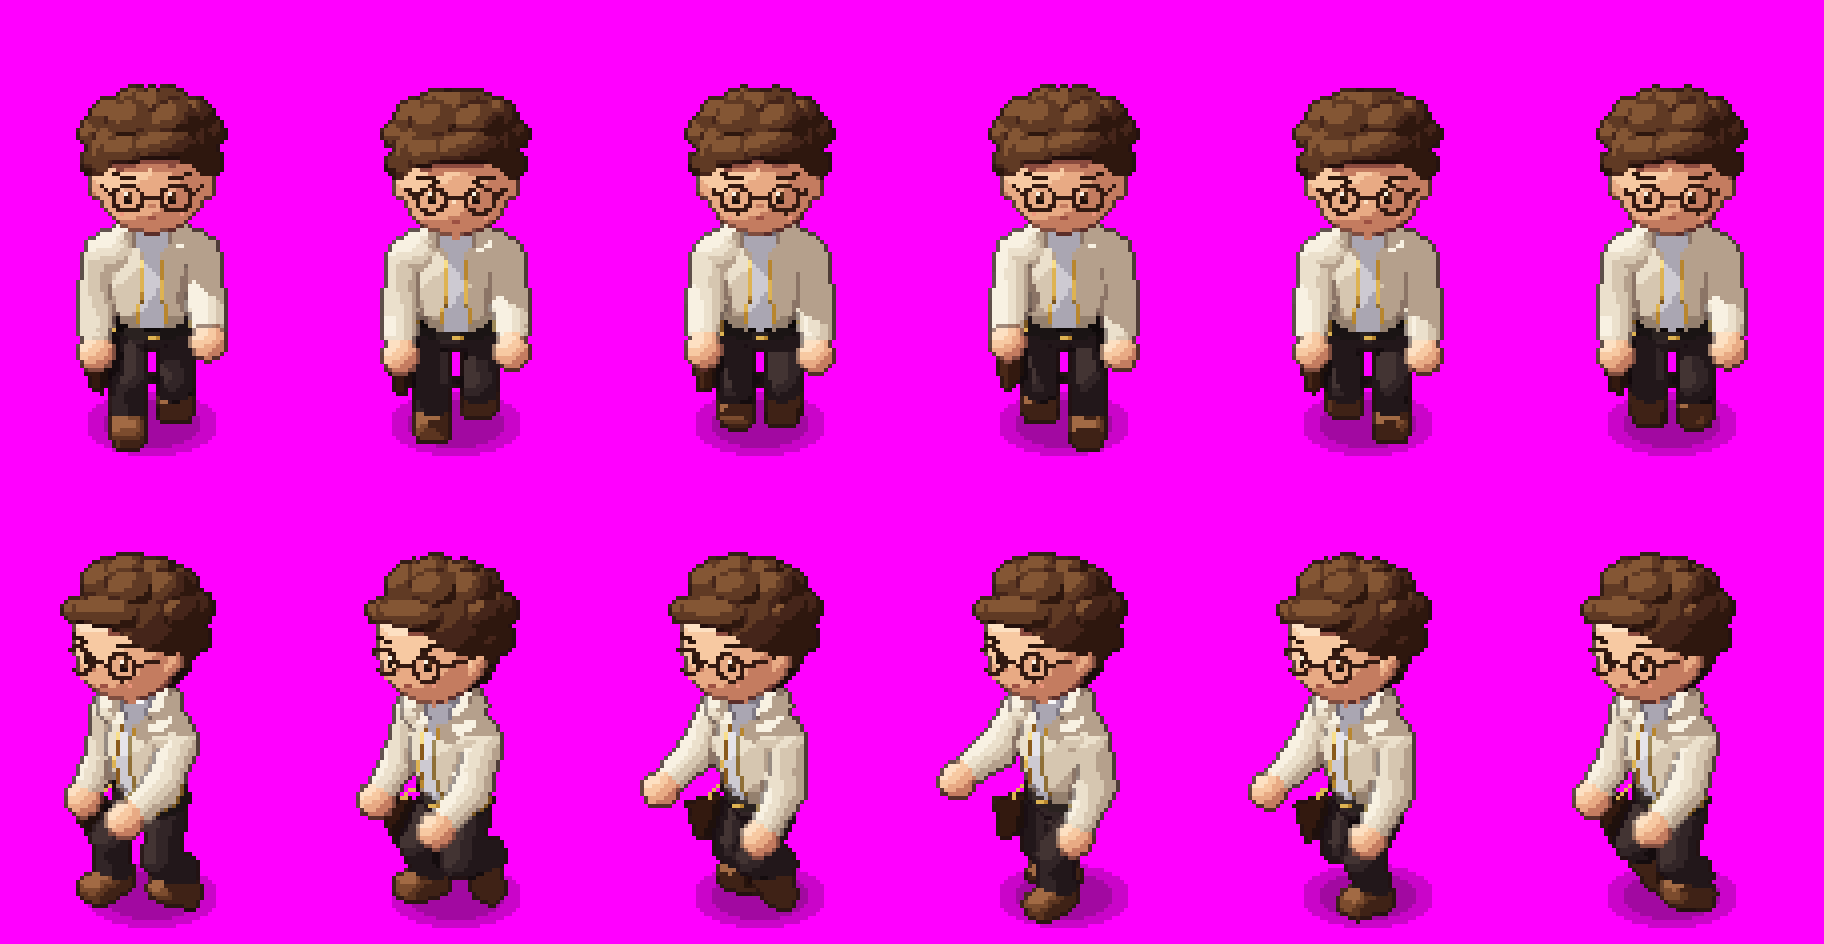
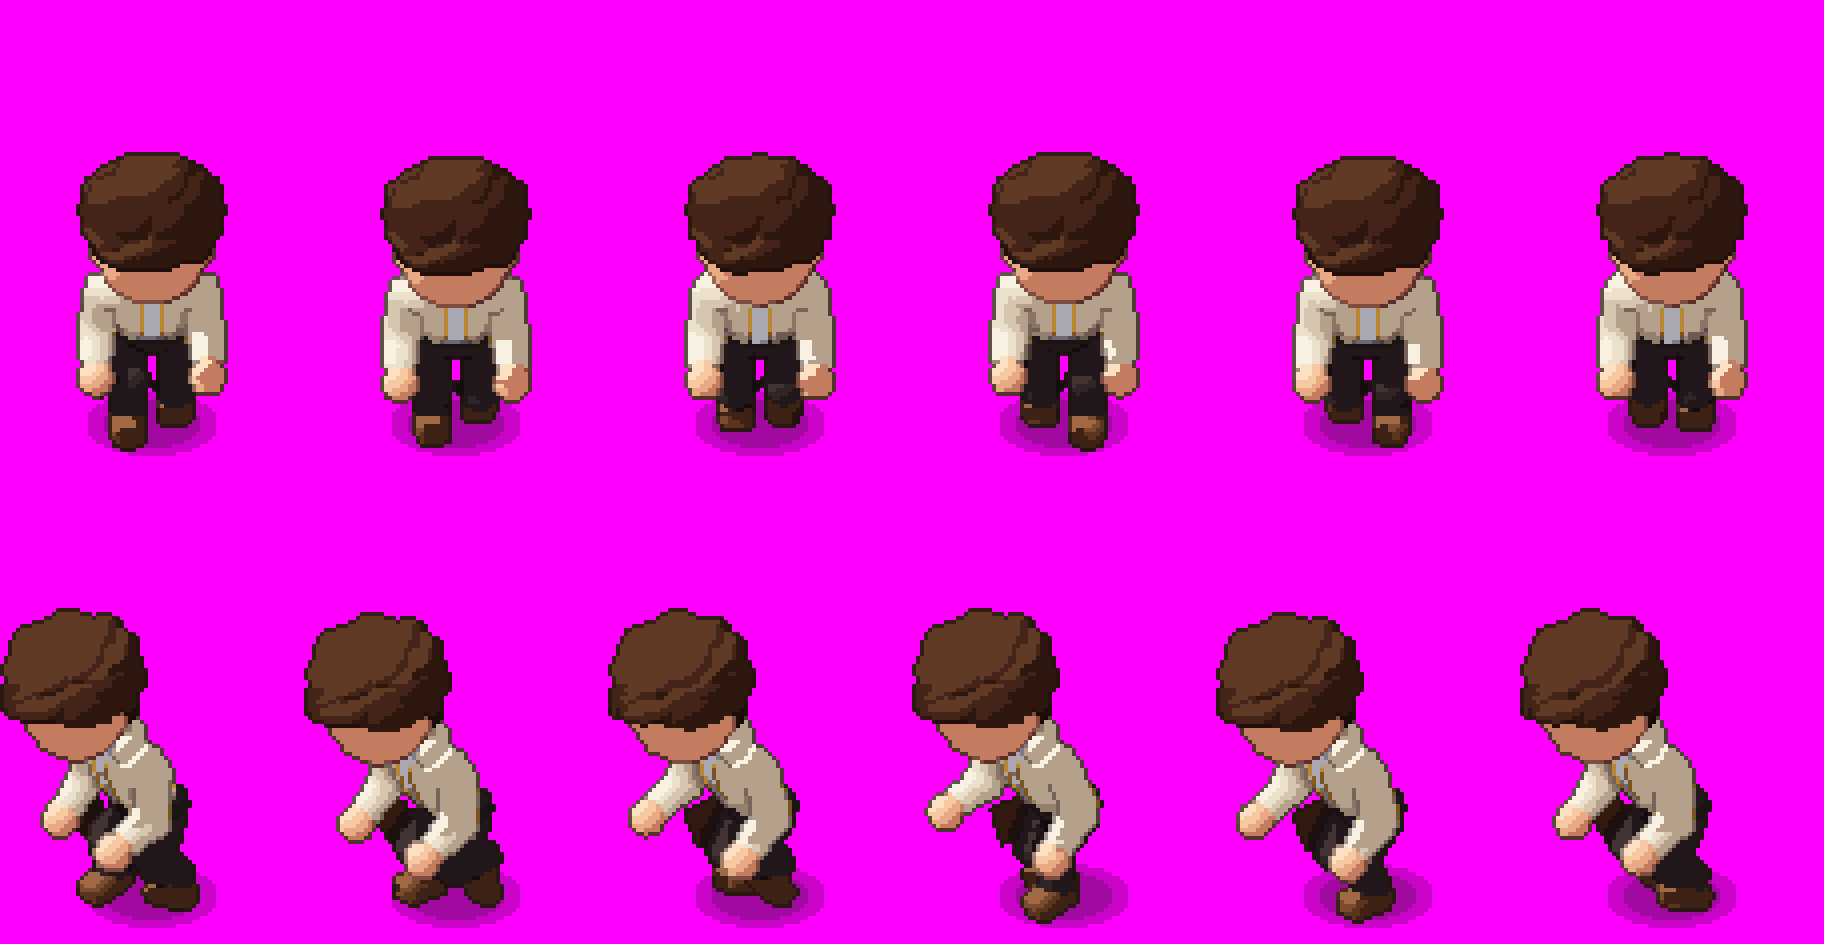
Guia do andar agachado: o tronco curva para a frente a partir do quadril
Antes só os joelhos dobravam e o corpo ficava reto. Agora o tronco, os
braços e a cabeça giram ~35 graus em volta do quadril, com os braços
encolhidos na frente do peito.

Claude-Session: https://claude.ai/code/session_01GewMJN2dFJ5tMTC2oy9kJJ

diff --git a/scripts/3d/estilo/agente_personagem/guia_acoes.py b/scripts/3d/estilo/agente_personagem/guia_acoes.py
@@ -71,14 +71,56 @@ def agachado(fase):
             kj, pe = 0.75 * kk, -0.3 * kk
         else:
             kj, pe = 0.12 * max(0.0, math.sin(math.pi * q / 0.5)), 0.0
-        pernas[lado] = (th + 0.55, kj + 0.95, pe + 0.2)
-    bd = -0.35 * math.cos(2 * math.pi * p)
-    braco = {'d': (bd + 0.35, 0.6), 'e': (-bd + 0.35, 0.6)}
-    return pose_livre(pernas, braco, incl=0.12)
+        pernas[lado] = (th + 0.75, kj + 1.25, pe + 0.35)
+    bd = -0.25 * math.cos(2 * math.pi * p)
+    # os braços dobrados na frente do corpo, perto do peito
+    braco = {'d': (bd + 0.55, 1.1), 'e': (-bd + 0.55, 1.1)}
+    J = pose_livre(pernas, braco, incl=0.0)
+    J['curva'] = 0.6           # o tronco curvado para a frente (~35 graus)
+    return J
+
+
+# as peças que ficam com as pernas (o resto do corpo curva para a frente a partir do quadril)
+BAIXO = ('calca_', 'bota_', 'quadril', 'cinto', 'livro')
+
+
+def _curvar(A):
+    """Troca alosi.montar por um que curva o tronco, os braços e a cabeça para a frente (J['curva'], em rad) em volta
+    do quadril: o agachado de verdade, e não só os joelhos dobrados. Uma vez só por processo."""
+    if getattr(A, '_curvado', False):
+        return
+    A._curvado = True
+    original = A.montar
+
+    def montar(J):
+        partes = original(J)
+        ang = J.get('curva', 0.0)
+        if not ang:
+            return partes
+        piv = np.array([0.0, 0.0, 0.52 + J['sobe']])
+        c, s_ = math.cos(ang), math.sin(ang)
+
+        def girar(f):
+            def d(L):
+                q = L - piv
+                # o inverso do giro para a frente (em volta do eixo a): o ponto do mundo volta para a peça reta
+                y = c * q[:, 1] - s_ * q[:, 2]
+                z = s_ * q[:, 1] + c * q[:, 2]
+                return f(np.stack([q[:, 0], y, z], 1) + piv)
+            return d
+        for p in partes:
+            if not p.nome.startswith(BAIXO):
+                p.d = girar(p.d)
+                if p.liso is not None:
+                    p.liso = girar(p.liso)
+        return partes
+    A.montar = montar
+    A.detalhes = lambda q: None        # o guia não precisa do rosto (o gerador desenha)
 
 
 def _q(args):
     import alosi as A
+    _curvar(A)
     tipo, d, k = args
     J = sentado() if tipo == 'sentado' else abrir(k) if tipo == 'abrir' else agachado(k / N)
     return A.rgba(A.render(d, J))
